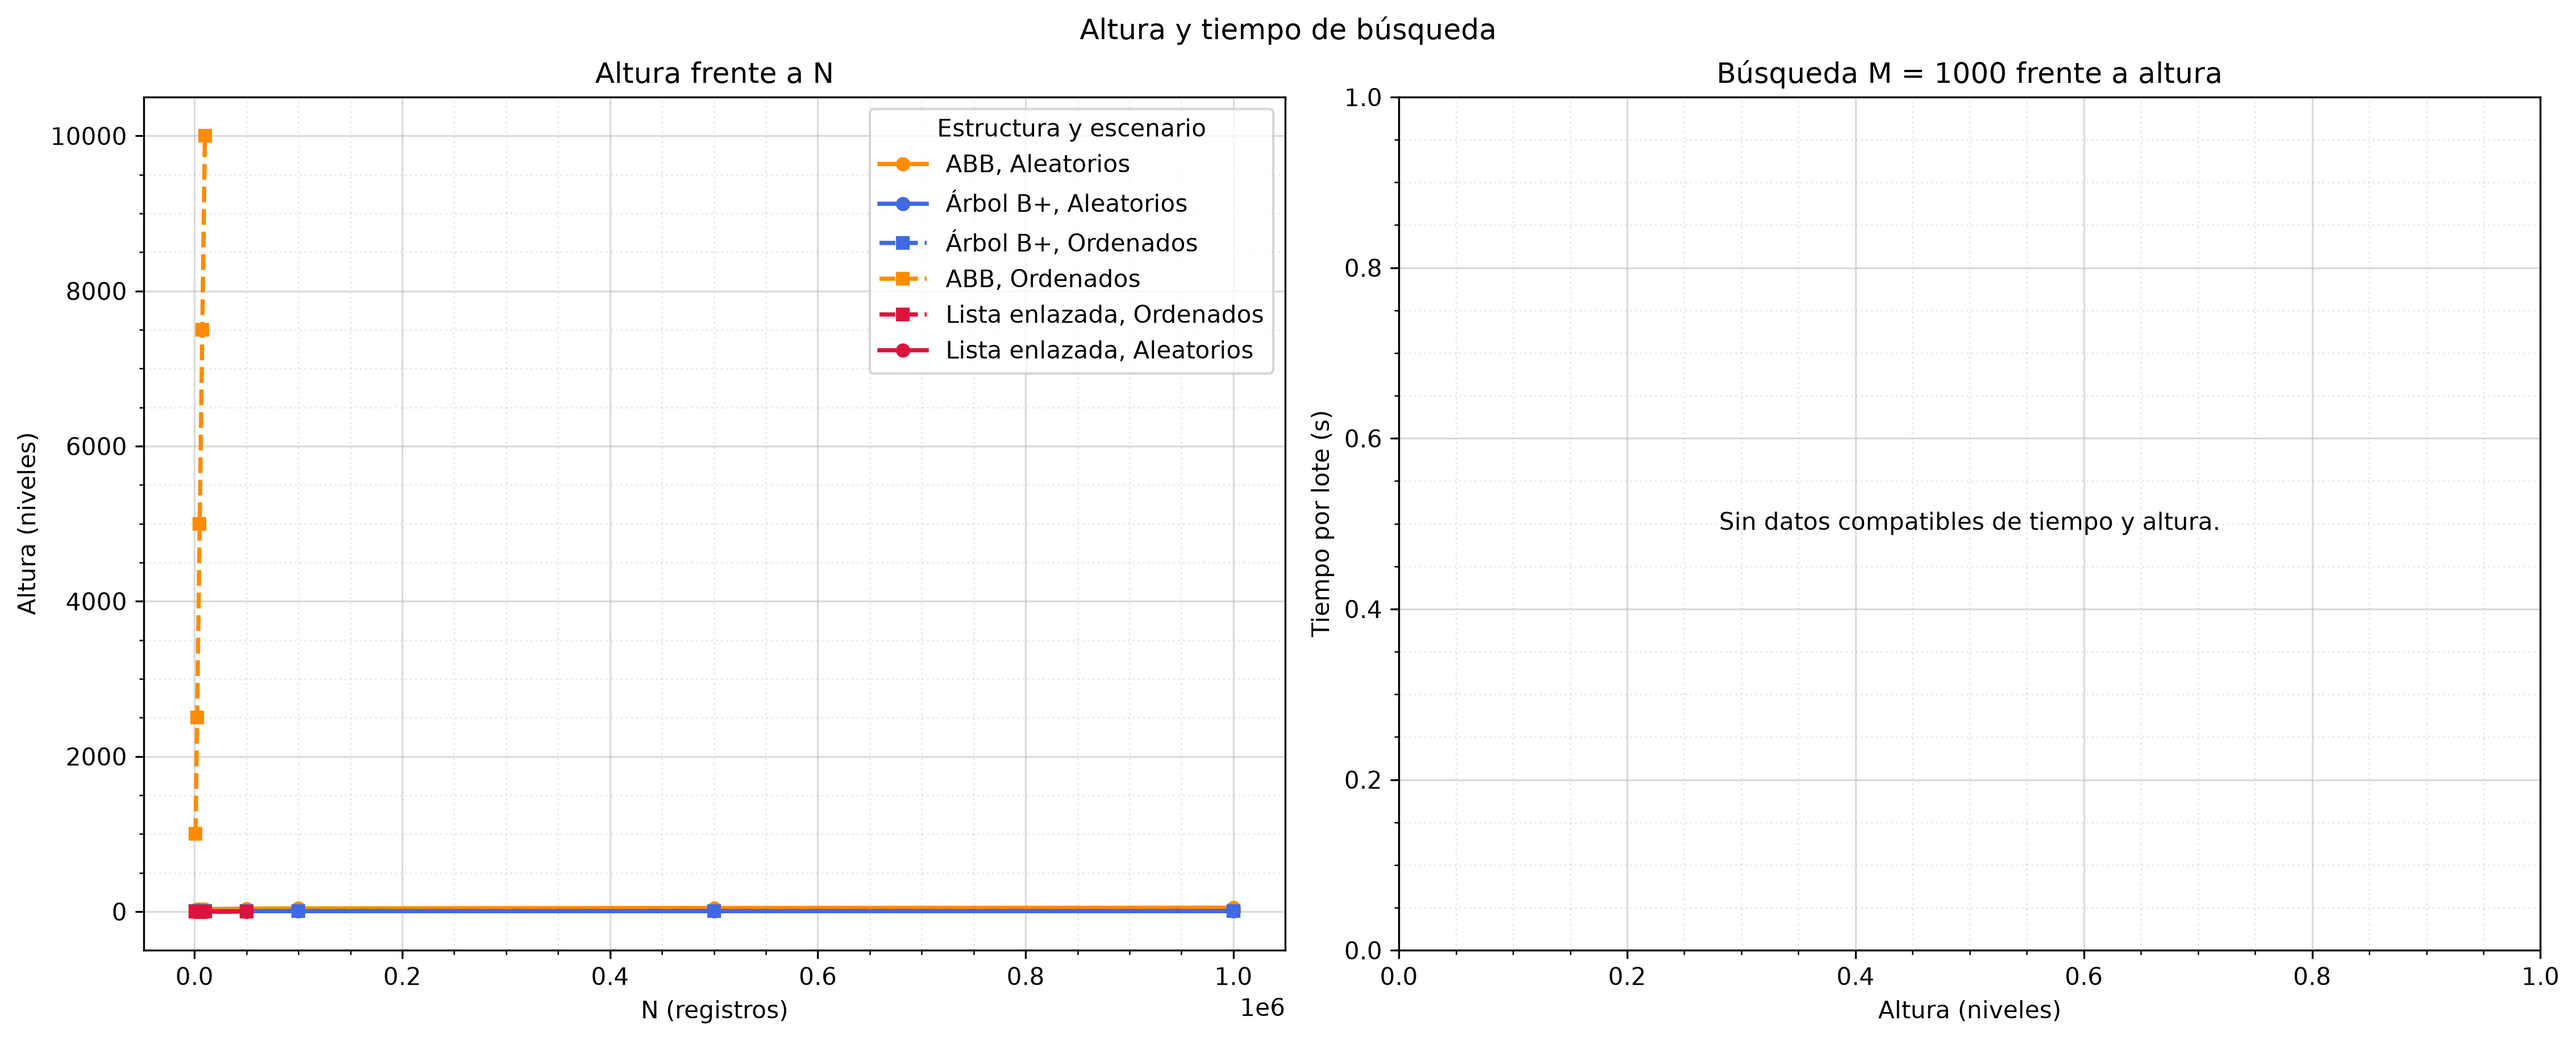
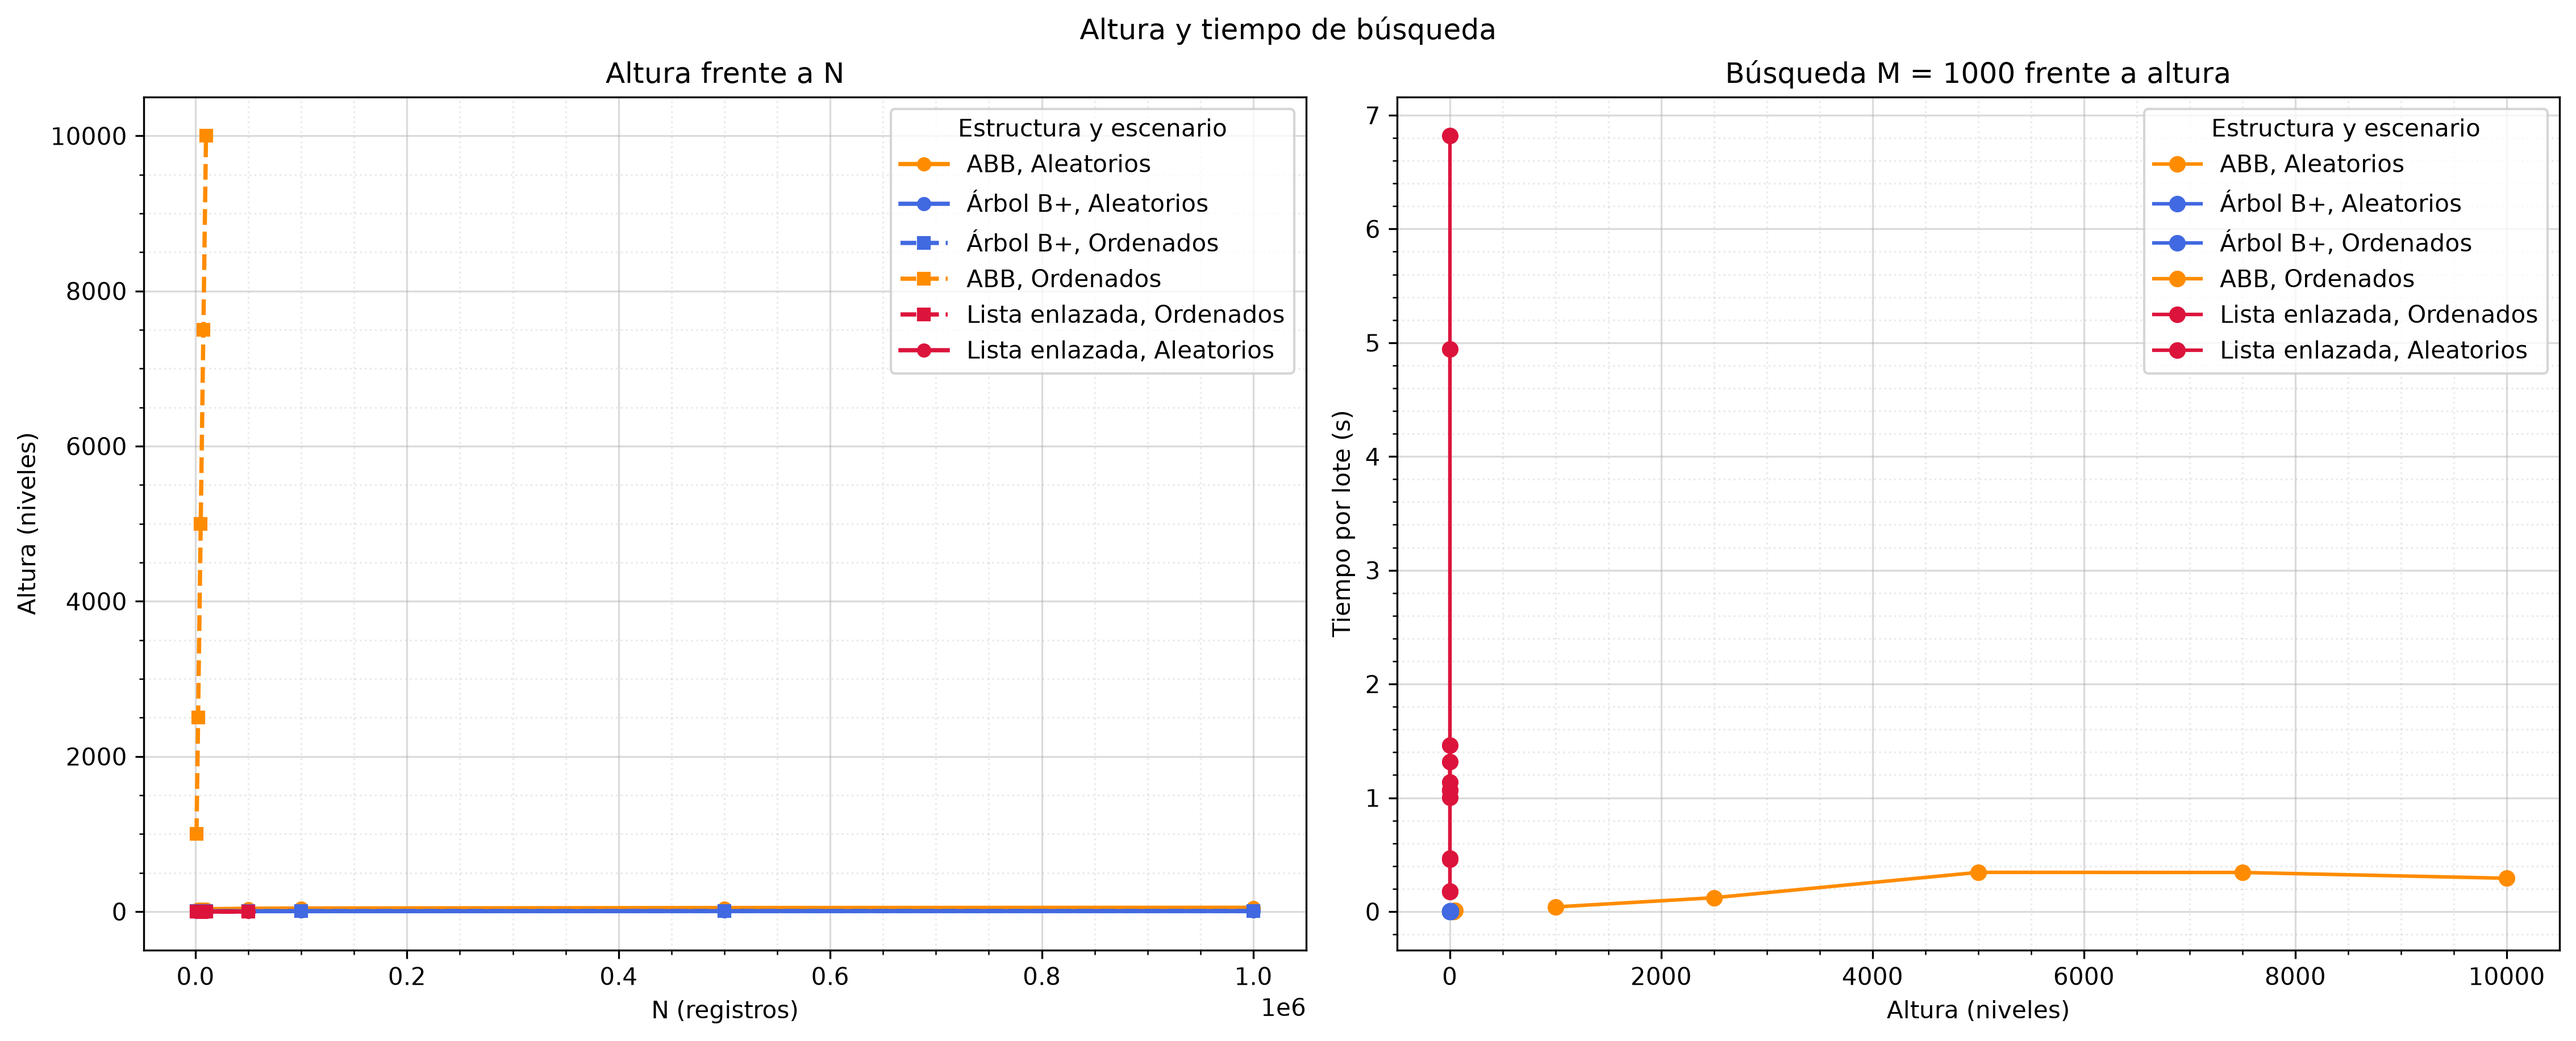
Arreglo de imagen
Correcion de un error visual en altura.png

diff --git a/src/plots.py b/src/plots.py
@@ -511,12 +511,19 @@ def _guardar_altura(datos: pd.DataFrame, carpeta: Path) -> Path:
     ax_altura.set_ylabel("Altura (niveles)")
     _configurar_ejes(ax_altura)
 
-    combinada = tiempos.merge(
-        alturas[["N", "Modo", "Estructura", "Orden_BPlus", "Altura_Promedio"]],
-        on=["N", "Modo", "Estructura", "Orden_BPlus"],
-        how="inner",
-        suffixes=("", "_altura"),
-    ) if not alturas.empty else pd.DataFrame()
+    combinada = (
+        tiempos[["N", "Modo", "Estructura", "Tiempo_Promedio_s"]]
+        .drop_duplicates()
+        .merge(
+            alturas[["N", "Modo", "Estructura", "Altura_Promedio"]]
+            .drop_duplicates(),
+            on=["N", "Modo", "Estructura"],
+            how="inner",
+            suffixes=("", "_altura"),
+        )
+        if not alturas.empty
+        else pd.DataFrame()
+    )
     if combinada.empty or combinada["Altura_Promedio"].isna().all():
         _mensaje_sin_datos(ax_tiempo, "Sin datos compatibles de tiempo y altura.")
     else:
@@ -524,11 +531,13 @@ def _guardar_altura(datos: pd.DataFrame, carpeta: Path) -> Path:
             ["Estructura", "Modo"],
             sort=False,
         ):
-            ax_tiempo.scatter(
+            grupo = grupo.sort_values("N")
+            ax_tiempo.plot(
                 grupo["Altura_Promedio"],
                 grupo["Tiempo_Promedio_s"],
                 color=_PALETA_ESTRUCTURAS.get(str(estructura)),
-                marker=_MARCADORES_MODO.get(str(modo), "o"),
+                linestyle="-",
+                marker="o",
                 label=_etiqueta_serie(str(estructura), str(modo)),
             )
         _leyenda(ax_tiempo, titulo="Estructura y escenario")
@@ -538,7 +547,10 @@ def _guardar_altura(datos: pd.DataFrame, carpeta: Path) -> Path:
     _configurar_ejes(ax_tiempo)
     fig.suptitle("Altura y tiempo de búsqueda")
     ruta = carpeta / "altura.png"
-    _guardar(fig, ruta)
+    ruta_alias = carpeta / "altura_y_busqueda.png"
+    fig.savefig(ruta, dpi=_DPI, bbox_inches="tight")
+    fig.savefig(ruta_alias, dpi=_DPI, bbox_inches="tight")
+    plt.close(fig)
     return ruta
 
 
